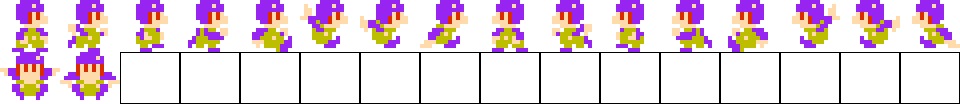
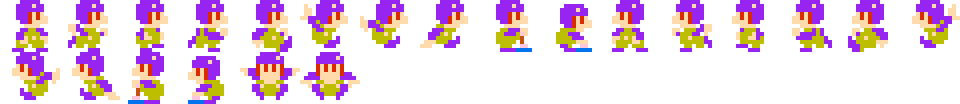
added pump mechanic and balloon differences

Changed region(s): [[0.0, 0.0, 1.0, 1.0], [0.9688, 0.0577, 1.0, 0.4615], [0.0312, 0.5481, 0.0625, 0.5769]]

diff --git a/src/entity.c b/src/entity.c
@@ -150,7 +150,7 @@ void CheckCollisions(Entity *self, SDL_Rect box1, SDL_Rect *collision)
 		{
 			if(EntityList[i].tang)		/*Collision with tangible object*/
 			{
-				if((abs((box1.y + box1.h) - box2.y) <= abs((box1.x + box1.w) - box2.x)) && (abs((box1.y + box1.h) - box2.y) <= abs((box2.x + box2.w) - box1.x)) && (abs((box1.y + box1.h) - box2.y) <= abs((box2.y + box2.h) - box1.y)))
+				if((abs((box1.y + box1.h) - box2.y) <= abs((box1.x + box1.w) - box2.x)) && (abs((box1.y + box1.h) - box2.y) <= abs((box2.x + box2.w) - box1.x)) && (abs((box1.y + box1.h) - box2.y) <= abs((box2.y + box2.h) - box1.y)) && (self->vy >= EntityList[i].vy))
 				{
 					self->uCheck = 1;
 					collision->y = box2.y;
@@ -218,7 +218,7 @@ void PlayerThink(Entity *self)
 	}
 	while(i <= 10);
 
-	if(!self->isRight && self->state != ST_DYING)self->frame -= 8;
+	if(!self->isRight && self->state != ST_DYING)self->frame -= 10;
 
 
 	/*Do While Alive*/
@@ -256,10 +256,10 @@ void PlayerThink(Entity *self)
 		self->sy += self->vy;
 
 		/*Standing Still*/
-		if((self->vx == 0) && self->uCheck)
+		if((self->vx == 0) && self->uCheck && self->state != ST_PUMP)
 			self->state = ST_IDLE;
 
-		if(uCheck2 && !self->uCheck)self->state = ST_JUMP;
+		
 
 		if(self->form == FM_NONE)
 		{
@@ -267,8 +267,11 @@ void PlayerThink(Entity *self)
 			if(self->vy <= gravity && !self->uCheck)
 				self->vy += 2;
 
+			/*Walk off ledge*/
+			if(uCheck2 && !self->uCheck)self->state = ST_JUMP;
+			
 			/*Player Inputs*/
-			if((isKeyHeld(SDLK_a) && !self->rCheck) || (isKeyHeld(SDLK_d) && !self->lCheck))
+			if(((isKeyHeld(SDLK_a) && !self->rCheck) || (isKeyHeld(SDLK_d) && !self->lCheck)) && (self->state != ST_PUMP))
 			{
 				if(isKeyHeld(SDLK_a))							/*Move left*/
 				{
@@ -298,7 +301,7 @@ void PlayerThink(Entity *self)
 			}
 
 
-			if(isKeyPressed(SDLK_SPACE))			
+			if(isKeyPressed(SDLK_SPACE) && (self->state != ST_PUMP))			
 			{
 				if(self->uCheck)					/*Jump*/
 				{
@@ -312,14 +315,156 @@ void PlayerThink(Entity *self)
 					self->delay = 2;
 				}
 			}
+
+			if(isKeyPressed(SDLK_p) && self->uCheck)	/*Pump*/
+			{
+				if(self->state != ST_PUMP)
+				{
+					self->state = ST_PUMP;
+					self->vx = 0;
+					self->delay = 0;
+				}
+				else
+				{
+					self->state = ST_IDLE;
+				}
+			}
+
+			if((self->state == ST_PUMP) && isKeyPressed(SDLK_s))
+			{
+				self->frame = 9;
+				self->delay = 3;
+				self->ct++;
+				if(self->ct == 10)
+				{
+					self->owner = MakeBalloon();
+					self->form = FM_BALLOON1;
+					self->ct = 0;
+				}
+			}
 		}
 
-		if(self->form == FM_BALLOON)
+		if(self->form == FM_BALLOON1)
+		{
+			/*Gravity*/
+			if(self->vy <= gravity && !self->uCheck)
+				self->vy += 0.35;
+
+			/*Walk off ledge*/
+			if(uCheck2 && !self->uCheck)
+			{
+				self->state = ST_JUMP;
+				self->vx = int(self->vx) - (int(self->vx) % 2);
+			}
+			
+			/*Player Inputs*/
+			if(self->uCheck)
+			{
+				if(((isKeyHeld(SDLK_a) && !self->rCheck) || (isKeyHeld(SDLK_d) && !self->lCheck)) && (self->state != ST_PUMP))
+				{
+					if(isKeyHeld(SDLK_a))							/*Move left*/
+					{
+						if(self->vx > -8)self->vx -= 0.6;
+						if(self->vx < 0)self->isRight = 0;
+					}
+					if(isKeyHeld(SDLK_d))							/*Move right*/
+					{
+						if(self->vx < 8)self->vx += 0.6;
+						if(self->vx > 0)self->isRight = 1;
+					}
+					if(self->uCheck && ((self->state != ST_WALK) && (self->state != ST_RUN)))	/*Initiate walk cycle*/
+					{
+						self->state = ST_WALK;
+						self->frame = 2;
+					}
+					if((abs(self->vx) >= 8) && (self->state == ST_WALK))self->state = ST_RUN;
+				}
+				else		/*Decelerates X Movement When Nothing's Pressed*/
+				{
+					if(abs(self->vx) > 0.6)
+					{
+						if(self->vx >= 0.6)self->vx -= 0.6;
+						if(self->vx <= -0.6)self->vx += 0.6;
+					}
+					else self->vx = 0;
+				}
+			}
+			else
+			{
+				if(isKeyHeld(SDLK_a) || isKeyHeld(SDLK_d))
+				{
+					if(isKeyHeld(SDLK_a))							/*Move left*/
+					{
+						self->isRight = 0;
+					}
+					if(isKeyHeld(SDLK_d))							/*Move right*/
+					{
+						self->isRight = 1;
+					}
+				}
+			}
+
+			if(isKeyPressed(SDLK_SPACE) && (self->state != ST_PUMP))			
+			{
+				if(self->uCheck)					/*Jump*/
+				{
+					self->vy = -6;
+					self->vx = int(self->vx) - (int(self->vx) % 2);
+					self->uCheck = 0;
+					self->state = ST_JUMP;
+				}
+				else if(self->state = ST_JUMP)		/*Flap*/
+				{
+					self->vy = -4;
+					if(isKeyHeld(SDLK_a) && self->vx > -6)self->vx -= 2;
+					if(isKeyHeld(SDLK_d) && self->vx < 6)self->vx += 2;
+					self->state = ST_FLAP;
+					self->delay = 4;
+				}
+			}
+
+			if(isKeyPressed(SDLK_p) && self->uCheck)	/*Pump*/
+			{
+				if(self->state != ST_PUMP)
+				{
+					self->state = ST_PUMP;
+					self->delay = 0;
+					self->vx = 0;
+				}
+				else
+				{
+					self->state = ST_IDLE;
+					self->ct = 0;
+				}
+			}
+
+			if((self->state == ST_PUMP) && isKeyPressed(SDLK_s))
+			{
+				self->frame = 9;
+				self->delay = 3;
+				self->ct++;
+				if(self->ct == 10)
+				{
+					self->form = FM_BALLOON2;
+					self->state = ST_IDLE;
+					self->ct = 0;
+				}
+			}
+		}
+
+		if(self->form == FM_BALLOON2)
 		{
 			/*Gravity*/
 			if(self->vy <= gravity && !self->uCheck)
 				self->vy += 0.25;
 
+			/*Walk off ledge*/
+			if(uCheck2 && !self->uCheck)
+			{
+				self->state = ST_JUMP;
+				self->vx = int(self->vx) - (int(self->vx) % 2);
+			}
+			
 			/*Player Inputs*/
 			if(self->uCheck)
 			{
@@ -379,8 +524,8 @@ void PlayerThink(Entity *self)
 				else if(self->state = ST_JUMP)		/*Flap*/
 				{
 					self->vy = -5;
-					if(isKeyHeld(SDLK_a))self->vx -= 2;
-					if(isKeyHeld(SDLK_d))self->vx += 2;
+					if(isKeyHeld(SDLK_a) && self->vx > -6)self->vx -= 2;
+					if(isKeyHeld(SDLK_d) && self->vx < 6)self->vx += 2;
 					self->state = ST_FLAP;
 					self->delay = 4;
 				}
@@ -447,10 +592,14 @@ void PlayerThink(Entity *self)
 			else if(self->delay > 0)self->delay--;
 				 else self->delay++;
 			break;
+		case ST_PUMP:
+			if(!self->delay)self->frame = 8;
+			else self->delay--;
+			break;
 	}
 
 
-	if(!self->isRight && self->state != ST_DYING)self->frame += 8;
+	if(!self->isRight && self->state != ST_DYING)self->frame += 10;
 }
 
 Entity *MakeBalloon()
@@ -461,7 +610,7 @@ Entity *MakeBalloon()
 	balloon->sprite = LoadSprite("images/balloons.png", 84, 60);
 	balloon->think = BalloonThink;
 	balloon->shown = 1;
-	balloon->frame = 16;
+	balloon->frame = 0;
 	balloon->sx = Player->sx - 12;
 	balloon->sy = Player->sy - 48;
 	balloon->bbox.x = 22;
@@ -476,7 +625,7 @@ Entity *MakeBalloon()
 
 void BalloonThink(Entity *self)
 {
-	self->frame -= 16;
+	if(Player->form == FM_BALLOON2)self->frame -= 16;
 	if(!Player->isRight)self->frame -= 8;
 	
 	self->sx = Player->sx -12;
@@ -534,7 +683,7 @@ void BalloonThink(Entity *self)
 			break;
 	}
 
-	self->frame += 16;
+	if(Player->form == FM_BALLOON2)self->frame += 16;
 	if(!Player->isRight)self->frame += 8;
 }
 

diff --git a/src/entity.h b/src/entity.h
@@ -10,8 +10,8 @@ Functions and stuff for handling entities
 #define MAXENTITIES		255
 #define MAXSTATES		20
 
-enum STATES {ST_IDLE, ST_WALK, ST_RUN, ST_SKID, ST_JUMP, ST_FLAP, ST_DYING};
-enum FORMS {FM_NONE, FM_BALLOON};
+enum STATES {ST_IDLE, ST_WALK, ST_RUN, ST_SKID, ST_JUMP, ST_FLAP, ST_PUMP, ST_DYING};
+enum FORMS {FM_NONE, FM_BALLOON1, FM_BALLOON2};
 
 typedef struct ENTITY_T
 {
@@ -31,6 +31,7 @@ typedef struct ENTITY_T
 	int uCheck, dCheck, lCheck, rCheck;		/*Collision checks*/
 	int isRight;				/*Which way is this facing*/
 	int delay;					/*Animation delay*/
+	int ct;						/*Counter*/
 	int tang;					/*Is this tangible*/
 	
 	int health;					/*Current health*/
